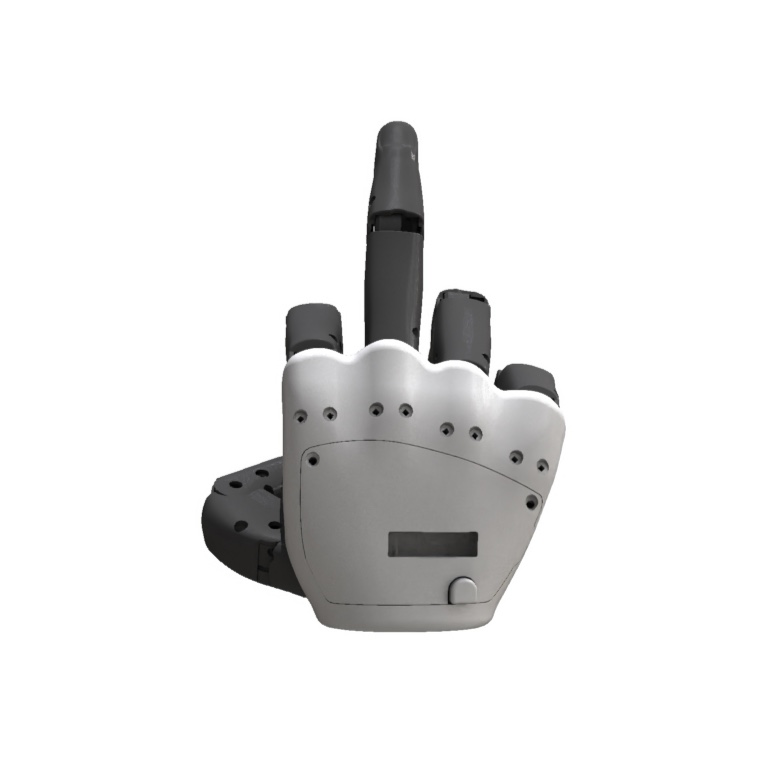
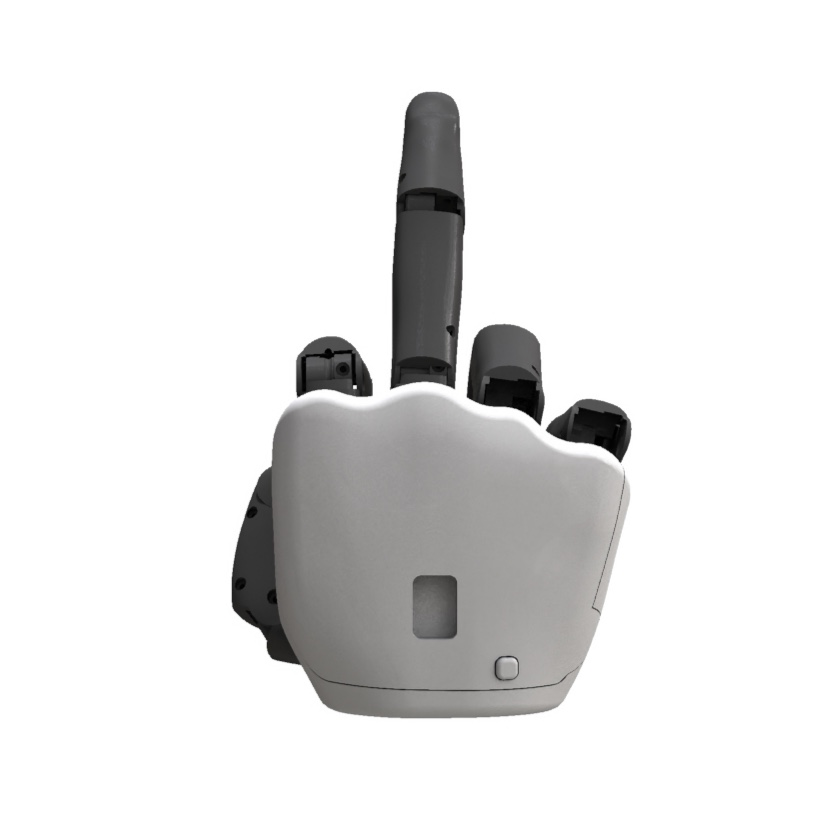
feat: 7DOF 손 모양 이미지를 PNG로 교체

Changed region(s): [[0.2465, 0.0924, 0.7702, 0.8626]]

diff --git a/app/src/test/java/com/mandro/mark7/domain/model/action/GestureCatalogTest.kt b/app/src/test/java/com/mandro/mark7/domain/model/action/GestureCatalogTest.kt
@@ -164,7 +164,7 @@ class GestureCatalogTest {
         assertEquals((1..14).toList(), pairs.flatMap { listOfNotNull(it.lead, it.companion) }
             .map { catalog.actionIdFor(it.id) })
         assertEquals((15..24).toList(), singles.map { catalog.actionIdFor(it.lead.id) })
-        assertEquals("mset_hand_shape/7dof/24_victory.jpg", catalog.imageAssetPath(singles.last().lead))
+        assertEquals("mset_hand_shape/7dof/24_victory.png", catalog.imageAssetPath(singles.last().lead))
         assertEquals(listOf(99, 99), listOf(6, 8).map {
             ActionMapping(dof = HandDof.DOF_7).toActionIds()[it - 1]
         })

diff --git a/app/src/main/java/com/mandro/mark7/domain/model/action/GestureCatalogs.kt b/app/src/main/java/com/mandro/mark7/domain/model/action/GestureCatalogs.kt
@@ -56,8 +56,7 @@ object GestureCatalogs {
 
     val DOF_7 = GestureCatalog(
         assetFolder = "mset_hand_shape/7dof",
-        imageExtension = "jpg",
-        imageExtensionOverrides = MIDDLE_FINGER_IMAGE_EXTENSION,
+        imageExtension = "png",
         groups = with(Gestures) {
             listOf(
                 pair(CYLINDER_GRIP_OPEN, CYLINDER_GRIP_CLOSED),   // 1, 2
